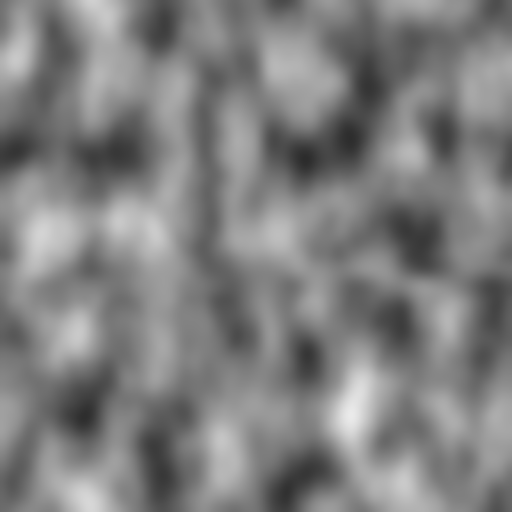
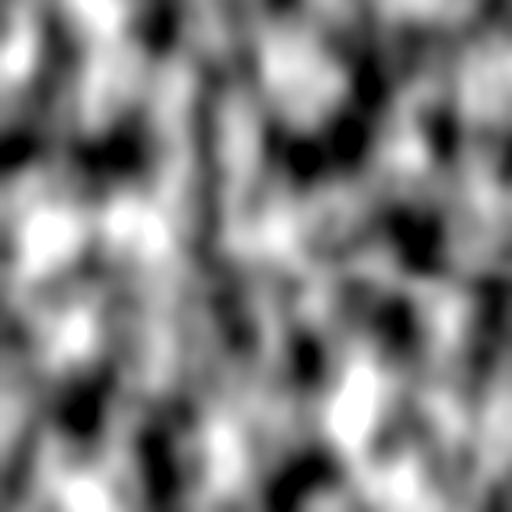
Bumpmap to Normalmap fixes
Playing around with water physics

diff --git a/OpenGLTestWorld.cpp b/OpenGLTestWorld.cpp
@@ -7,7 +7,7 @@
 #include "RenderingState.h"
 #include "RenderDataHandler.h"
 #include "TextureSettings.h"
-#include "Input/Input Objects/KeyboardBoolInput.h"
+#include "Input/Input Objects/MouseBoolInput.h"
 #include "Math/Higher Math/BumpmapToNormalmap.h"
 #include "Rendering/Texture Management/TextureConverters.h"
 
@@ -79,7 +79,7 @@ void GenerateTerrainNoise(Noise2D & outNoise)
 }
 
 
-Water::RippleWaterArgs rippleArgs(Vector3f(), 250.0f, 2.0f, 2.0f, 5.0f);
+Water::RippleWaterArgs rippleArgs(Vector3f(), 1000.0f, 40.0f, 30.0f, 1.0f);
 void GenerateWaterNormalmap(Fake2DArray<Vector3f> & outHeight)
 {
     outHeight.Fill(Vector3f());
@@ -100,7 +100,7 @@ void GenerateWaterNormalmap(Fake2DArray<Vector3f> & outHeight)
 
     Fake2DArray<float> heightmap(bumpMap.getSize().x, bumpMap.getSize().y);
     TextureConverters::ToArray(bumpMap, TextureConverters::Channels::Red, heightmap);
-    BumpmapToNormalmap::Convert(heightmap, outHeight);
+    BumpmapToNormalmap::Convert(heightmap, 10.0f, outHeight);
 }
 
 
@@ -162,15 +162,26 @@ void OpenGLTestWorld::InitializeTextures(void)
         EndWorld();
         return;
     }
-    
+
     //Water normal map texture.
-    if (!normalMapImg.loadFromFile("Normalmap.png"))
+    if (false)
     {
-        std::cout << "Failed to load normal map texture.\n";
-        Pause();
-        EndWorld();
-        return;
+        if (!normalMapImg.loadFromFile("Normalmap.png"))
+        {
+            std::cout << "Failed to load normal map texture.\n";
+            Pause();
+            EndWorld();
+            return;
+        }
     }
+    else
+    {
+        Fake2DArray<Vector3f> normalMap(512, 512);
+        GenerateWaterNormalmap(normalMap);
+
+        TextureConverters::ToImage(normalMap, normalMapImg);
+    }
+
     RenderDataHandler::CreateTexture2D(normalMapImgH, normalMapImg);
     TextureSettings(TextureSettings::TextureFiltering::TF_LINEAR, TextureSettings::TextureWrapping::TW_WRAP).SetData(normalMapImgH);
     if (!PrintRenderError("Error setting up normal map texture"))
@@ -306,7 +317,7 @@ void OpenGLTestWorld::InitializeObjects(void)
 
     //Create water.
 
-    water = new Water(300, 4, Vector3f());
+    water = new Water(600, 4, Vector3f());
     if (water->HasError())
     {
         std::cout << "Error creating water: " << water->GetErrorMessage();
@@ -321,20 +332,24 @@ void OpenGLTestWorld::InitializeObjects(void)
     Materials::LitTexture_GetUniforms(*water->Mat);
     Materials::LitTexture_SetUniforms(water->GetMesh(), dirLight);
 
+    float amb = 0.35f, diff = 1.0f - amb;
+    water->GetMesh().FloatUniformValues["DirectionalLight.Ambient"].SetData(&amb);
+    water->GetMesh().FloatUniformValues["DirectionalLight.Diffuse"].SetData(&diff);
+
     water->GetMesh().TextureSamplers[0][0] = waterImgH;
     water->GetMesh().TextureSamplers[0].Panners[0] = Vector2f(0.0f, 0.0f);
-    water->GetMesh().TextureSamplers[0].Scales[0] = Vector2f(20.0f, 20.0f);
+    water->GetMesh().TextureSamplers[0].Scales[0] = Vector2f(50.0f, 50.0f);
 
     water->GetMesh().TextureSamplers[0][1] = normalMapImgH;
-    water->GetMesh().TextureSamplers[0].Panners[1] = Vector2f(-0.01f, -0.01f);
-    water->GetMesh().TextureSamplers[0].Scales[1] = Vector2f(10.0f, 10.0f);
+    water->GetMesh().TextureSamplers[0].Panners[1] = Vector2f(0.05f, 0.05f);
+    water->GetMesh().TextureSamplers[0].Scales[1] = Vector2f(30.0f, 30.0f);
 }
 
 
 OpenGLTestWorld::OpenGLTestWorld(void)
 : SFMLOpenGLWorld(windowSize.x, windowSize.y), testMat(0), testMesh(PrimitiveTypes::Triangles), foliage(0), pTerr(0)
 {
-	dirLight.Dir = Vector3f(1.0f, 1.0f, -1.0f).Normalized();
+	dirLight.Dir = Vector3f(-1.0f, -1.0f, -1.0f).Normalized();
 	dirLight.Col = Vector3f(1.0f, 1.0f, 1.0f);
 
 	dirLight.Ambient = 0.3f;
@@ -349,7 +364,7 @@ void OpenGLTestWorld::InitializeWorld(void)
 	if (IsGameOver()) return;
 	
 
-    Input.AddBoolInput(666, BoolInputPtr((BoolInput*)(new KeyboardBoolInput(sf::Keyboard::Key::U, BoolInput::ValueStates::JustPressed))));
+    Input.AddBoolInput(666, BoolInputPtr((BoolInput*)(new MouseBoolInput(sf::Mouse::Button::Left, BoolInput::ValueStates::JustPressed))));
 
 
 	GetWindow()->setVerticalSyncEnabled(true);

diff --git a/Math/Higher Math/BumpmapToNormalmap.cpp b/Math/Higher Math/BumpmapToNormalmap.cpp
@@ -1,6 +1,6 @@
 #include "BumpmapToNormalmap.h"
 
-void BumpmapToNormalmap::Convert(const Fake2DArray<float> & heightmap, Fake2DArray<Vector3f> & normals)
+void BumpmapToNormalmap::Convert(const Fake2DArray<float> & heightmap, float heightScale, Fake2DArray<Vector3f> & normals)
 {
     Vector3f sum, tempSum, base, first, second;
     for (int x = 0; x < heightmap.GetWidth(); ++x)
@@ -9,12 +9,12 @@ void BumpmapToNormalmap::Convert(const Fake2DArray<float> & heightmap, Fake2DArr
         {
             sum = Vector3f();
 
-            base = Vector3f(x, y, heightmap[Vector2i(x, y)]);
+            base = Vector3f(x, y, heightScale * heightmap[Vector2i(x, y)]);
 
             if (x > 0 && y > 0)
             {
-                first = Vector3f(x - 1.0f, y, heightmap[Vector2i(x - 1, y)]);
-                second = Vector3f(x, y - 1.0f, heightmap[Vector2i(x, y - 1)]);
+                first = Vector3f(x - 1.0f, y, heightScale * heightmap[Vector2i(x - 1, y)]);
+                second = Vector3f(x, y - 1.0f, heightScale * heightmap[Vector2i(x, y - 1)]);
 
                 tempSum = (first - base).Normalized().Cross((second - base).Normalized()).Normalized();
                 if (tempSum.z < 0.0f)
@@ -24,8 +24,8 @@ void BumpmapToNormalmap::Convert(const Fake2DArray<float> & heightmap, Fake2DArr
             }
             if (x < heightmap.GetWidth() - 1 && y < heightmap.GetHeight() - 1)
             {
-                first = Vector3f(x + 1.0f, y, heightmap[Vector2i(x + 1, y)]);
-                second = Vector3f(x, y - 1.0f, heightmap[Vector2i(x, y + 1)]);
+                first = Vector3f(x + 1.0f, y, heightScale * heightmap[Vector2i(x + 1, y)]);
+                second = Vector3f(x, y - 1.0f, heightScale * heightmap[Vector2i(x, y + 1)]);
 
                 tempSum = (first - base).Normalized().Cross((second - base).Normalized()).Normalized();
                 if (tempSum.z < 0.0f)
@@ -34,7 +34,12 @@ void BumpmapToNormalmap::Convert(const Fake2DArray<float> & heightmap, Fake2DArr
                 sum += tempSum;
             }
 
-            normals[Vector2i(x, y)] = sum.Normalized();
+            sum = sum.Normalized();
+            //Normal components are in the range {-1, 1}, but color components are in the range {0, 1}.
+            sum.x = 0.5f + (0.5f * sum.x);
+            sum.y = 0.5f + (0.5f * sum.y);
+
+            normals[Vector2i(x, y)] = sum;
         }
     }
 }

diff --git a/Rendering/Objects/Water.cpp b/Rendering/Objects/Water.cpp
@@ -6,6 +6,8 @@
 #include "../../TextureSettings.h"
 
 
+//TODO: Sample a "water floor" texture and for every water pixel cast a ray down to the ocean floor.
+
 void CreateWaterMesh(unsigned int size, Mesh & outM)
 {
     Vector3f offset(size * -0.5f, size * -0.5f, 0.0f);
@@ -339,7 +341,8 @@ RenderingPass Water::GetRippleWaterRenderer(int maxRipples)
                     float dist = distance(source, horizontalPos);\n\
                     float heightScale = max(0, mix(0.0, 1.0, 1.0 - (dist / dropoffPoint)));\n\
                     //'cutoff' will be either 0 or 1 based on how far away this vertex is.\n\
-                    float cutoff = timeSinceCreated * speed * 3.0;\n\
+                    //TODO: Smooth cutoff, not a binary 1/0 thing.\n\
+                    float cutoff = period * speed * timeSinceCreated;\n\
                     cutoff = max(0, sign(cutoff - dist));\n\
                     \n\
                     float innerVal = (dist / period) + (-u_elapsed_seconds * speed);\n\

diff --git a/Math/Higher Math/BumpmapToNormalmap.h b/Math/Higher Math/BumpmapToNormalmap.h
@@ -7,5 +7,5 @@ class BumpmapToNormalmap
 {
 public:
     
-    static void Convert(const Fake2DArray<float> & heightmap, Fake2DArray<Vector3f> & outNormals);
+    static void Convert(const Fake2DArray<float> & heightmap, float heightScale, Fake2DArray<Vector3f> & outNormals);
 };
